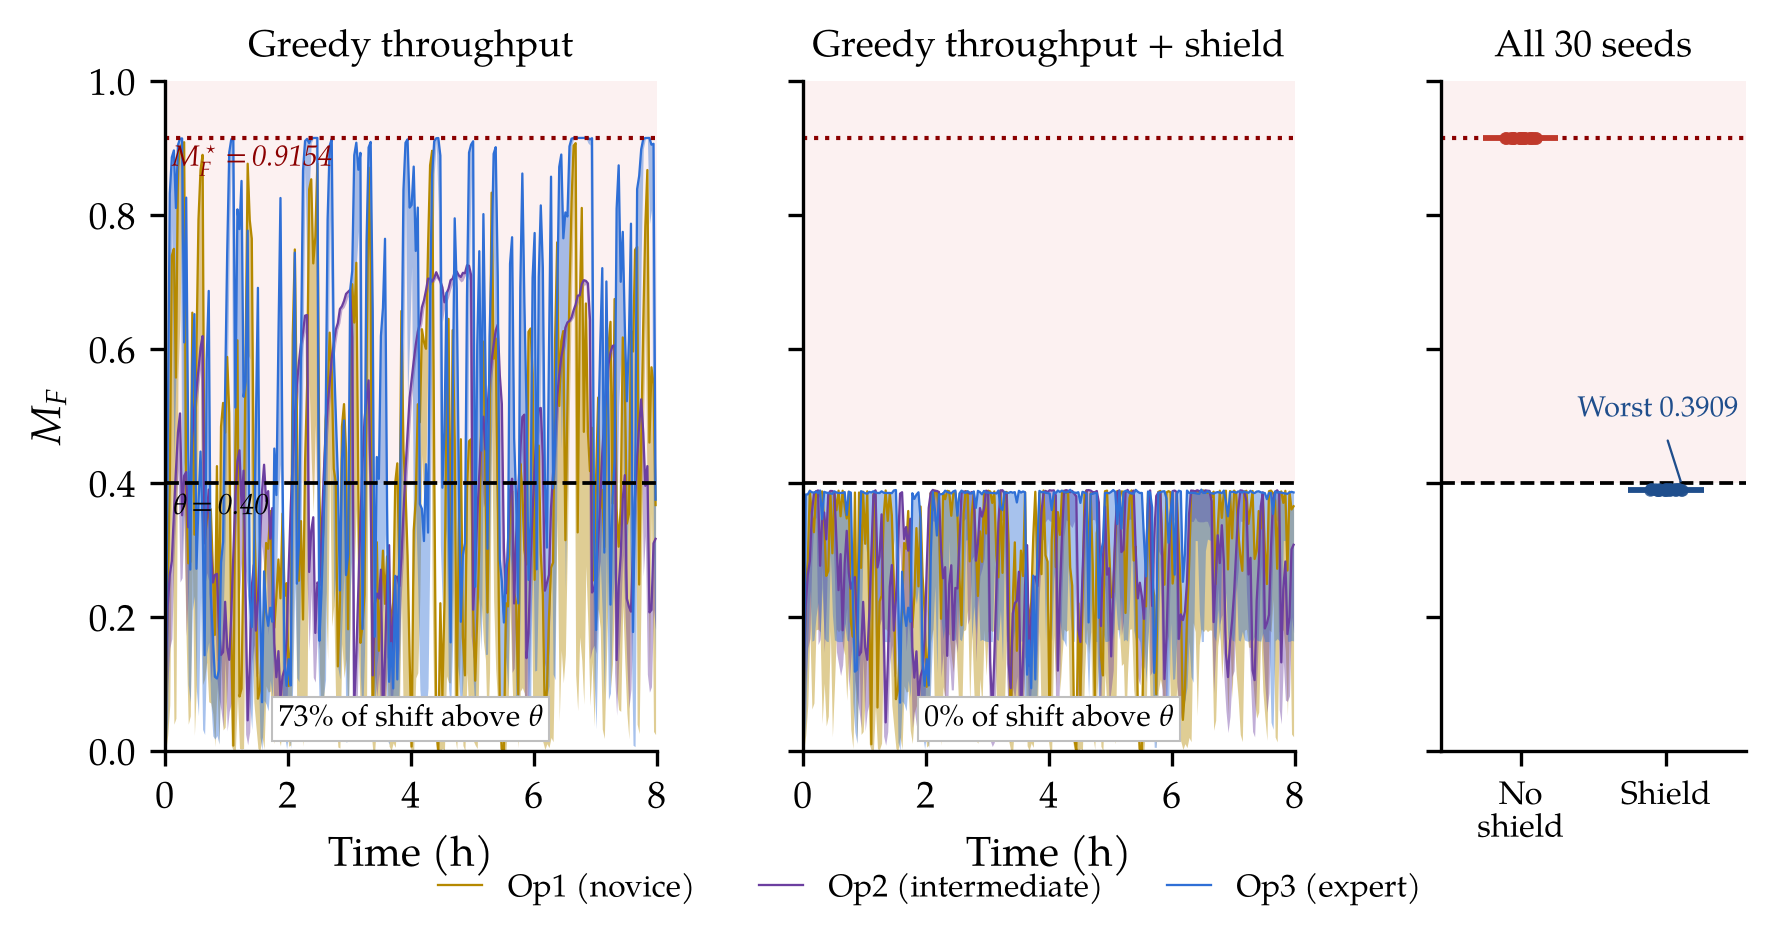
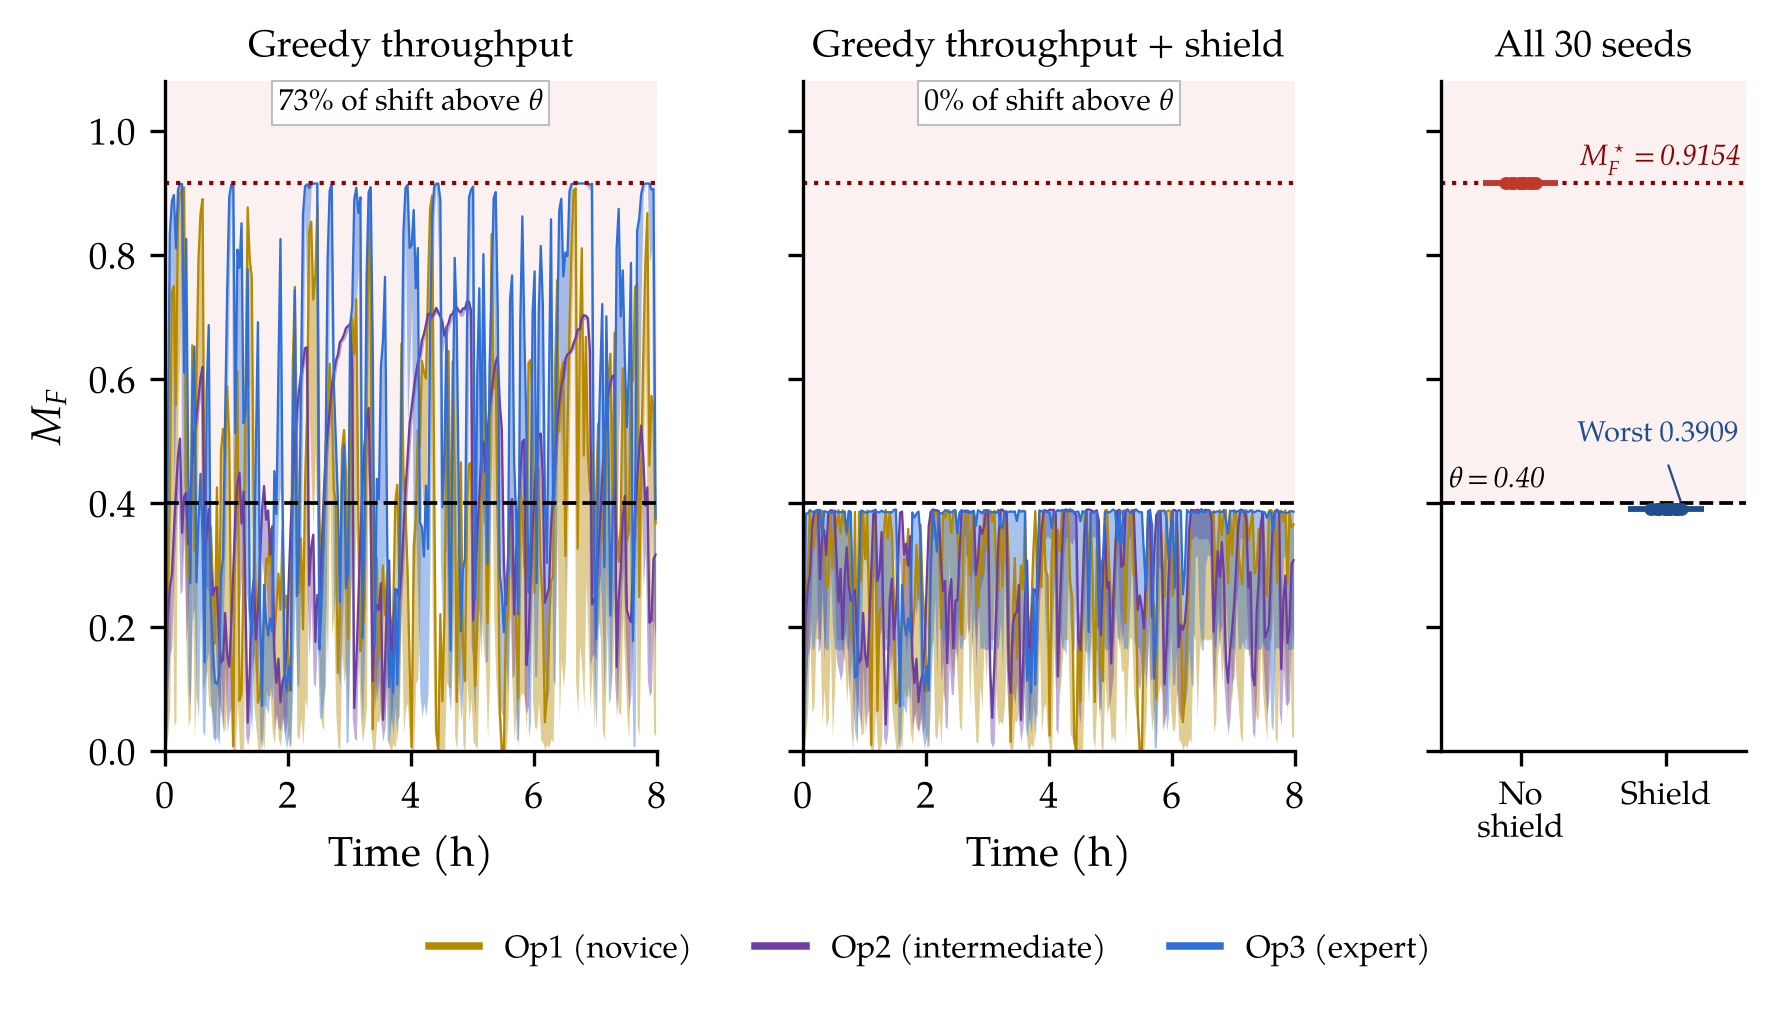
v1.1.1: final layout of Figure 5 for the published article
Reference-level labels moved to an empty area of the right panel, shift-percentage boxes above the data, legend clear of the axis labels. README lists the tested versions and the release history; CITATION.cff updated. No change to code results or data.

diff --git a/src/figura_traces_v2.py b/src/figura_traces_v2.py
@@ -9,6 +9,11 @@ changes: traces are drawn as 2-min min/max envelopes, so the extremes that the
 safety claim concerns stay visible; the saturated equilibrium of Proposition 1
 is drawn as an explicit reference level; and a third panel reports the per-shift
 maximum over all 30 seeds, which is where the pathwise guarantee can be read.
+
+Release 1.1.1 (final layout for publication): the labels of the reference
+levels sit in an empty area of panel (c), the shift-percentage boxes sit above
+the data, the y-axis extends to 1.08 to make room for them, and the legend
+lines are thicker and clear of the axis labels.  Data and values unchanged.
 """
 import numpy as np
 import matplotlib
@@ -39,7 +44,7 @@ for ax, sh, tit in ((ax0, False, "Greedy throughput"),
     tr = np.zeros((T_SHIFT, 3))
     simular(1, sh, arr, LOAD, TAU_H, ROBOT_FACTOR, OPERATOR, ROBOT,
             KAPPA, SPEED, RB_MODE, NSUB, tr)
-    ax.axhspan(THETA, 1.0, color="#d64545", alpha=0.07, lw=0)
+    ax.axhspan(THETA, 1.08, color="#d64545", alpha=0.07, lw=0)
     for o in range(3):
         b = tr[:, o].reshape(-1, BIN)
         ax.fill_between(tb, b.min(1), b.max(1), color=COLS[o], alpha=0.42, lw=0)
@@ -47,17 +52,15 @@ for ax, sh, tit in ((ax0, False, "Greedy throughput"),
     ax.axhline(THETA, ls="--", lw=0.9, color="k")
     ax.axhline(SAT, ls=":", lw=1.0, color="#8b0000")
     frac = 100.0 * np.mean(tr.max(axis=1) > THETA)
-    ax.text(0.5, 0.025, f"{frac:.0f}% of shift above " + r"$\theta$",
-            transform=ax.transAxes, ha="center", va="bottom", fontsize=7.2,
+    ax.text(0.5, 0.99, f"{frac:.0f}% of shift above " + r"$\theta$",
+            transform=ax.transAxes, ha="center", va="top", fontsize=7.2,
             bbox=dict(fc="white", ec="0.75", lw=0.5, pad=1.6))
     ax.set_title(tit, fontsize=9)
     ax.set_xlabel("Time (h)")
-    ax.set_xlim(0, 8); ax.set_ylim(0, 1.0)
+    ax.set_xlim(0, 8); ax.set_ylim(0, 1.08)
+    ax.set_yticks(np.arange(0, 1.01, 0.2))
 
 ax0.set_ylabel(r"$M_F$")
-ax0.text(0.12, SAT - 0.01, r"$M_F^\star=0.9154$", ha="left", va="top",
-         fontsize=7, color="#8b0000")
-ax0.text(0.12, THETA - 0.015, r"$\theta=0.40$", ha="left", va="top", fontsize=7)
 ax1.set_yticklabels([])
 
 # ---- panel (c): per-shift maximum across all seeds
@@ -71,7 +74,7 @@ for sh in (False, True):
                                np.zeros((T_SHIFT, 3)))
         mx[sh].append(maxmf.max())
 
-ax2.axhspan(THETA, 1.0, color="#d64545", alpha=0.07, lw=0)
+ax2.axhspan(THETA, 1.08, color="#d64545", alpha=0.07, lw=0)
 jit = np.random.default_rng(7).uniform(-0.11, 0.11, N_SEEDS)
 for i, (sh, c) in enumerate(((False, "#c0392b"), (True, "#1f4e8c"))):
     ax2.scatter(i + jit, mx[sh], s=9, color=c, alpha=0.8, lw=0, zorder=3)
@@ -79,15 +82,24 @@ for i, (sh, c) in enumerate(((False, "#c0392b"), (True, "#1f4e8c"))):
 ax2.axhline(THETA, ls="--", lw=0.9, color="k")
 ax2.axhline(SAT, ls=":", lw=1.0, color="#8b0000")
 ax2.set_xticks([0, 1]); ax2.set_xticklabels(["No\nshield", "Shield"], fontsize=7.8)
-ax2.set_xlim(-0.55, 1.55); ax2.set_ylim(0, 1.0); ax2.set_yticklabels([])
+ax2.set_xlim(-0.55, 1.55); ax2.set_ylim(0, 1.08)
+ax2.set_yticks(np.arange(0, 1.01, 0.2)); ax2.set_yticklabels([])
 ax2.set_title(f"All {N_SEEDS} seeds", fontsize=9)
 ax2.annotate(f"Worst {max(mx[True]):.4f}", xy=(1.12, max(mx[True])),
              xytext=(1.50, 0.50), fontsize=6.9, ha="right", color="#1f4e8c",
              arrowprops=dict(arrowstyle="-", lw=0.55, color="#1f4e8c"))
 
+# reference levels labelled where no data are drawn (panel c)
+ax2.text(1.52, SAT + 0.012, r"$M_F^\star=0.9154$", ha="right", va="bottom",
+         fontsize=7, color="#8b0000")
+ax2.text(-0.50, THETA + 0.012, r"$\theta=0.40$", ha="left", va="bottom",
+         fontsize=7)
+
 h, l = ax0.get_legend_handles_labels()
-fig.legend(h, l, frameon=False, fontsize=7.6, loc="lower center",
-           ncol=3, bbox_to_anchor=(0.5, -0.10), handlelength=1.4)
+leg = fig.legend(h, l, frameon=False, fontsize=7.6, loc="lower center",
+                 ncol=3, bbox_to_anchor=(0.5, -0.17), handlelength=1.6)
+for lh in leg.get_lines():
+    lh.set_linewidth(1.8)
 
 fig.savefig("fig_shield_traces.pdf", bbox_inches="tight")
 fig.savefig("fig_shield_traces.png", bbox_inches="tight", dpi=300)

diff --git a/README.md b/README.md
@@ -40,8 +40,12 @@ python verificar_periodico.py       # periodic peak and rest allowance table
 python figuras.py                   # Figures 1-3
 python escudo_experimento.py        # shield table and Figure 6 (seeds 1000-1029)
 python figura_traces_v2.py          # Figure 5
-python revision_experimentos.py     # Tables 1, 3, 5, 6, 7 of the revised article
+python revision_experimentos.py     # Tables 1, 3, 5, 6, 7 of the article
 ```
+
+Tested with Python 3.13, NumPy 2.5, SciPy 1.18, Matplotlib 3.11 and Numba 0.68;
+with these versions the scripts reproduce the files in `results/` exactly.
+
 
 `revision_experimentos.py` runs seven experiments:
 
@@ -71,6 +75,14 @@ The RoboDK cell (optional) requires RoboDK and `pip install robodk`; open an
 empty station and run `python crear_escena_hrc.py` from `robodk/`, then
 `python visibilidad.py mixto`. The Doosan H2017 and A0509 robot files must be
 downloaded from the RoboDK online library.
+
+## Versions
+
+| Release | Content |
+|---|---|
+| v1.0.0 | Code, results and figures of the submitted article |
+| v1.1.0 | Experiments and figures added in revision round 1 |
+| v1.1.1 | Final layout of Figure 5 for the published article (reference-level labels and legend moved clear of the data); no change to code results or data |
 
 ## Citation
 
